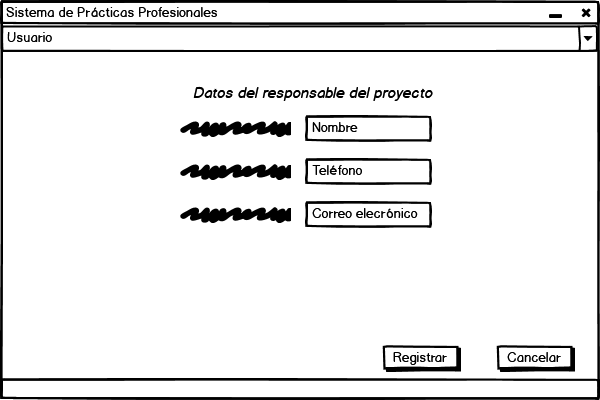
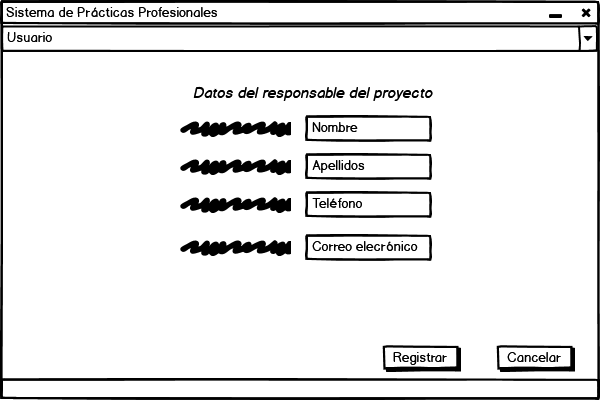
new cosas

Changed region(s): [[0.3, 0.36, 0.72, 0.66]]

diff --git a/assets/ucdescriptions/coordinator/CU-C-1.md b/assets/ucdescriptions/coordinator/CU-C-1.md
@@ -5,7 +5,7 @@ permalink: /design-specification/uc-descriptions/coordinator/cu-c-1/
 hide_hero: true 
 ---
 
-**ID:** CU-C-7
+**ID:** CU-C-1
 
 **Nombre:** Registrar Proyecto
 
@@ -54,7 +54,7 @@ PRE-1. Debe haber al menos un **`COORDINATOR`** registrado en el sistema.
 	  3. El *Coordinador* completa todos los campos y da clic en "Registrar" y el *SPP* registra la nueva **`RELATED COMPANY`** en la base de datos, despliega un [`Dialog_Success`][DLSU], despliega la ventana [`View_AddProject`][VAPT] y continua el proceso en el <a href="#fn-2">FN-2</a>; si el *Coordinador* selecciona la opción "Cancelar", el *SPP* solo despliega la ventana [`View_AddProject`][VAPT] y continua el proceso en el <a href="#fn-2">FN-2</a>. (Ver <a href="#info_invalida">FA-3</a>, <a href="#error_conexion">EX-1</a>)
   5. <a id="añadir_responsable"><i></i></a>*Agregar responsable del proyecto*
 	  1. El *Coordinador* hace clic en el botón "Agregar" de la sección Responsable del proyecto.
-	  2. El *SPP* despliega la ventana [`View_AddResponsible`][VARE] la cual contiene una etiqueta con la leyenda "Datos del responsable del proyecto", otras etiquetas y cuadros de texto para ingresar información del **`PROJECT RESPONSIBLE`** (Nombre, correo electronico y teléfono); al final, se encuentran los botones "Registrar" y "Cancelar". 
+	  2. El *SPP* despliega la ventana [`View_AddResponsible`][VARE] la cual contiene una etiqueta con la leyenda "Datos del responsable del proyecto", otras etiquetas y cuadros de texto para ingresar información del **`PROJECT RESPONSIBLE`** (Nombre, apellidos, correo electronico y teléfono); al final, se encuentran los botones "Registrar" y "Cancelar". 
 	  3. El *Coordinador* completa todos los campos y da clic en "Registrar" y el *SPP* registra el nuevo **`PROJECT RESPONSIBLE`** en la base de datos, despliega un [`Dialog_Success`][DLSU], despliega la ventana [`View_AddProject`][VAPT] y continua el proceso en el <a href="#fn-2">FN-2</a>; si el *Coordinador* selecciona la opción "Cancelar", el *SPP* solo despliega la ventana [`View_AddProject`][VAPT] y continua el proceso en el <a href="#fn-2">FN-2</a>. (Ver <a href="#info_invalida">FA-3</a>, <a href="#error_conexion">EX-1</a>)
 
 **Excepciones (EX):**  

diff --git a/assets/ucdescriptions/professor/CU-PF-1.md b/assets/ucdescriptions/professor/CU-PF-1.md
@@ -5,7 +5,7 @@ permalink: /design-specification/uc-descriptions/professor/cu-pf-1/
 hide_hero: true 
 ---
 
-**ID:** CU-PF-14  
+**ID:** CU-PF-1  
 
 **Nombre:** Generar actividad  
 
@@ -29,7 +29,7 @@ PRE-1. Debe existir al menos un **`PROFESSOR`** en el sistema.
 PRE-2. El **`PROFESSOR`** debe tener asignado como mínimo un **`PRACTICING`**.   
 
 **Flujo Normal:**  
-  1. El *SPP* despliega la ventana [`View_AddActivity`][VAAC] y muestra 3 etiquetas: Titulo, Descripción y Fecha de entrega. Las primeras dos etiquetas tienen campos de texto a sus costados mientras que la última tiene un `DatePicker` debajo donde se puede seleccionar una fecha en específico. Por último, se muestran 2 botones “Publicar” y “Cancelar”. 
+  1. El *SPP* despliega la ventana [`View_AddActivity`][VAAC] y muestra 5 etiquetas: Titulo, Descripción, Horas actuales, Horas estimadas y Fecha de entrega. Las primeras 4 etiquetas tienen campos de texto a sus costados mientras que la última tiene un `DatePicker` debajo donde se puede seleccionar una fecha en específico. Por último, se muestran 2 botones “Publicar” y “Cancelar”. 
   2. <a id="fn-2"><i></i></a>El *Profesor* ingresa un título y descripción para la **`ACTIVITY`**, selecciona una fecha límite de entrega haciendo clic en un día cualquiera y da clic el botón “Publicar”. (Ver <a href="#cancelar_accion">FA-1</a>).
   3.  El *SPP* muestra un [`Dialog_Confirmation`][DLCO] junto con los botones “Confirmar” y “Cancelar”. 
   4. El *Profesor* selecciona la opción “Confirmar”. (Ver <a href="#cancelar_confirm">FA-2</a>)
